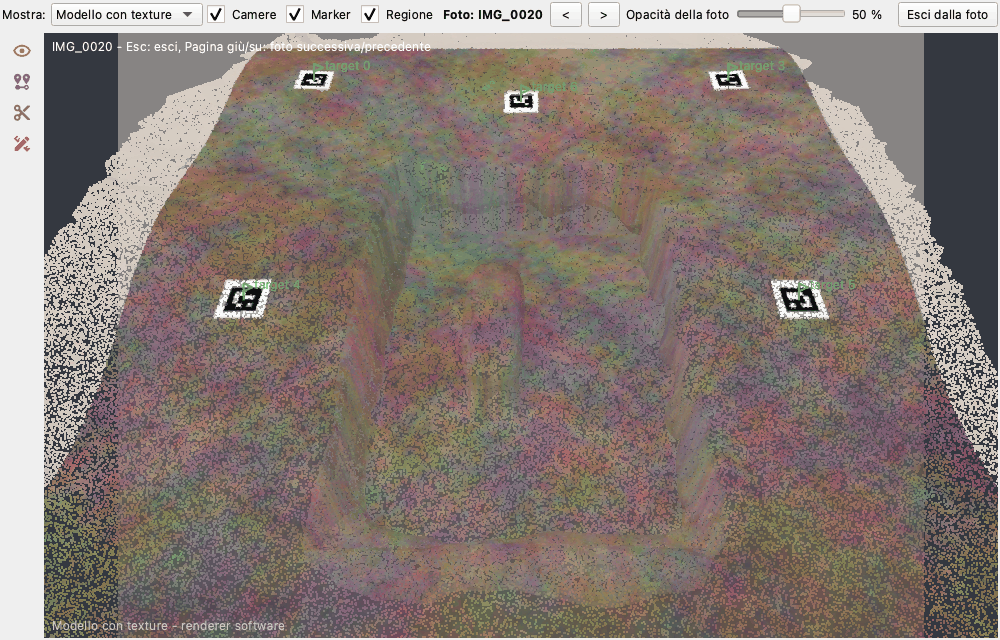
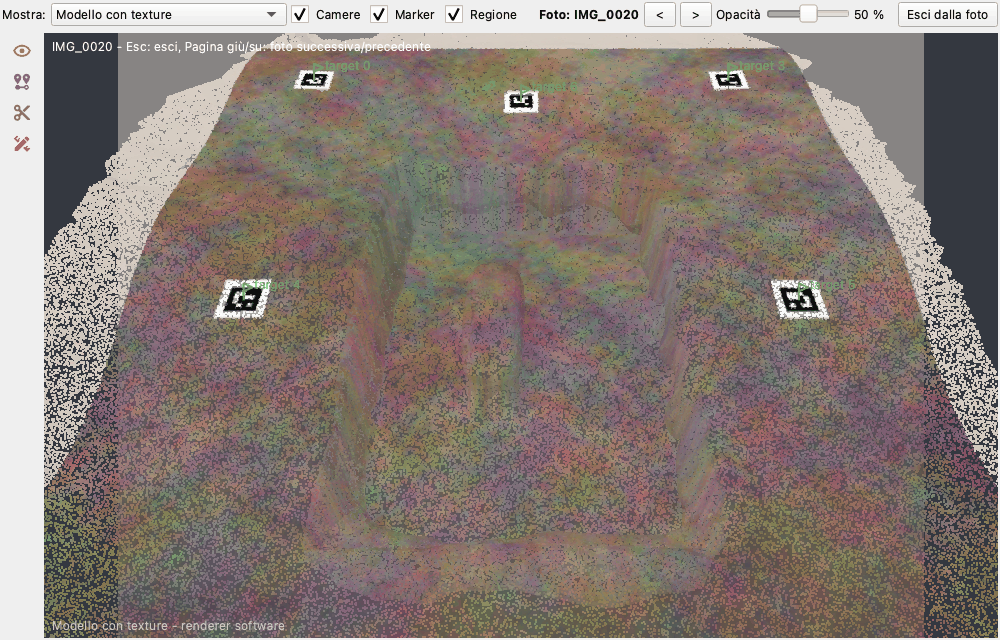
docs: looking through a photo - order of all aligned photos, wide fisheye edges cut, markers under the photo with VTK, keys from the row (EN/IT, picture redone)

Changed region(s): [[0.186, 0.0, 0.899, 0.0312]]

diff --git a/docs/gui/view3d.md b/docs/gui/view3d.md
@@ -105,7 +105,8 @@ view: see the [Layer pane](panes.md#layer).
 Application **1.7.5**. As Metashape's *Look Through*, the 3D view can **take the place of an aligned photo**: the view
 moves to where the photo was taken, looks where the camera looked with its field of view (the calibrated focal length of
 the sensor), and the photo is drawn **over the model**, undistorted with the lens model of the sensor (fisheye lenses
-too) so that it lies on the model, the cloud or the tie points - whatever *Show* chooses. Where the photo and the model
+too) so that it lies on the model, the cloud or the tie points - whatever *Show* chooses. The undistorted photo keeps the
+focal length of the sensor: with a wide fisheye the outer edges of the photo (far from its centre) are cut. Where the photo and the model
 differ, the model is wrong there (or the photo shows something that is no longer there). The photo fills the view in one
 direction and is centred in the other: bands at the sides or above and below when the shapes differ.
 
@@ -118,15 +119,18 @@ Where to start from:
 - the **Look through a photo** button in the *View* group of the rail of the 3D view: *Photo that best matches the
   view* chooses the aligned photo whose direction and position are closest to the view now (the angle between the
   directions, plus 30 degrees for every size of the scene between the positions) and moves the view there; *Next
-  photo* and *Previous photo* go through the photos in the order they were taken (the EXIF time, else the names).
+  photo* and *Previous photo* go through all the aligned photos of the chunk (not only those the *Photos* pane
+  shows) in the order they were taken: by EXIF time, then the photos without a time by name.
 
 While looking through a photo, a row above the view shows its name, **<** and **>** (previous and next photo), the
 **photo opacity** (0 %: the model only, 100 %: the photo only; 50 % the first time, then the last value used) and
-*Leave the photo*. ++page-down++ or ++right++ open the next photo, ++page-up++ or ++left++ the previous one, ++esc++
-leaves. **Any movement of the view leaves the photo** - rotating, panning, zooming, ++home++, ++t++: the photo goes and
+*Leave the photo*; a long name is shortened, whole in its tooltip, and on a narrow view the row goes on more lines.
+++page-down++ or ++right++ open the next photo, ++page-up++ or ++left++ the previous one, ++esc++ leaves (++page-down++,
+++page-up++ and ++esc++ also with the slider or a button of the row in use). **Any movement of the view leaves the photo** - rotating, panning, zooming, ++home++, ++t++: the photo goes and
 the view stays where it was, free to move (++home++ and ++t++ give back the usual field of view). Choosing another view in
 *Show* keeps the photo. The photo is drawn under the cameras, the markers and the free drawings (in the software
-renderer; with VTK it is a layer over the scene and, below 100 %, they show through it). A vertical exaggeration goes back
+renderer; with VTK the photo is a layer over the scene: below 100 % they show through it, at 100 % they are
+hidden). A vertical exaggeration goes back
 to x1 for the photo: the photo lies on the true heights only.
 
 The photo is read and undistorted in the background, at most 1600 pixels on its longer side; the last six are kept, so

diff --git a/docs/gui/view3d.it.md b/docs/gui/view3d.it.md
@@ -106,7 +106,8 @@ vedi il [pannello Layer](panes.md#layer).
 Applicazione **1.7.5**. Come *Look Through* di Metashape, la vista 3D può **mettersi al posto di una foto allineata**: la
 vista va dove è stata scattata la foto, guarda dove guardava la fotocamera con il suo campo visivo (la focale calibrata
 del sensore) e la foto si disegna **sopra il modello**, raddrizzata con il modello dell'obiettivo del sensore (anche i
-fisheye) così che coincida con il modello, la nuvola o i punti di legame - quello che sceglie *Mostra*. Dove foto e
+fisheye) così che coincida con il modello, la nuvola o i punti di legame - quello che sceglie *Mostra*. La foto raddrizzata
+tiene la focale del sensore: con un fisheye molto ampio i bordi esterni della foto (lontani dal centro) restano tagliati. Dove foto e
 modello non coincidono, lì il modello è sbagliato (o la foto mostra qualcosa che non c'è più). La foto riempie la vista
 in una direzione ed è centrata nell'altra: bande ai lati o sopra e sotto quando le forme sono diverse.
 
@@ -119,15 +120,18 @@ Da dove si parte:
 - il pulsante **Guarda dalla foto** nel gruppo *Vista* della colonna di strumenti della vista 3D: *Foto più adatta alla
   vista* sceglie la foto allineata con direzione e posizione più vicine alla vista di adesso (l'angolo fra le
   direzioni, più 30 gradi per ogni dimensione della scena fra le posizioni) e porta lì la vista; *Foto successiva* e
-  *Foto precedente* scorrono le foto nell'ordine in cui sono state scattate (l'ora EXIF, altrimenti i nomi).
+  *Foto precedente* scorrono tutte le foto allineate del chunk (non solo quelle che mostra il pannello *Foto*)
+  nell'ordine in cui sono state scattate: per ora EXIF, poi le foto senza ora per nome.
 
 Mentre si guarda da una foto, una riga sopra la vista ne dà il nome, **<** e **>** (foto precedente e successiva),
 l'**opacità della foto** (0 %: solo il modello, 100 %: solo la foto; 50 % la prima volta, poi l'ultimo valore usato) ed
-*Esci dalla foto*. ++page-down++ o ++right++ aprono la foto successiva, ++page-up++ o ++left++ la precedente, ++esc++
-esce. **Qualsiasi movimento della vista esce dalla foto** - ruotare, spostare, avvicinare, ++home++, ++t++: la foto
+*Esci dalla foto*; un nome lungo si accorcia, intero nel suggerimento, e su una vista stretta la riga va a capo.
+++page-down++ o ++right++ aprono la foto successiva, ++page-up++ o ++left++ la precedente, ++esc++ esce (++page-down++,
+++page-up++ ed ++esc++ anche con il cursore o un pulsante della riga in uso). **Qualsiasi movimento della vista esce dalla foto** - ruotare, spostare, avvicinare, ++home++, ++t++: la foto
 sparisce e la vista resta dov'era, libera di muoversi (++home++ e ++t++ ridanno il campo visivo solito). Scegliere
 un'altra vista in *Mostra* tiene la foto. La foto si disegna sotto camere, marker e disegni liberi (con il motore
-software; con VTK è uno strato sopra la scena e, sotto il 100 %, si vedono attraverso). L'esagerazione verticale torna a
+software; con VTK la foto è uno strato sopra la scena: sotto il 100 % si vedono attraverso, al 100 % restano
+nascosti). L'esagerazione verticale torna a
 x1 per la foto: la foto coincide solo con le quote vere.
 
 La foto si legge e si raddrizza in sottofondo, al massimo 1600 pixel sul lato lungo; le ultime sei restano pronte, così
